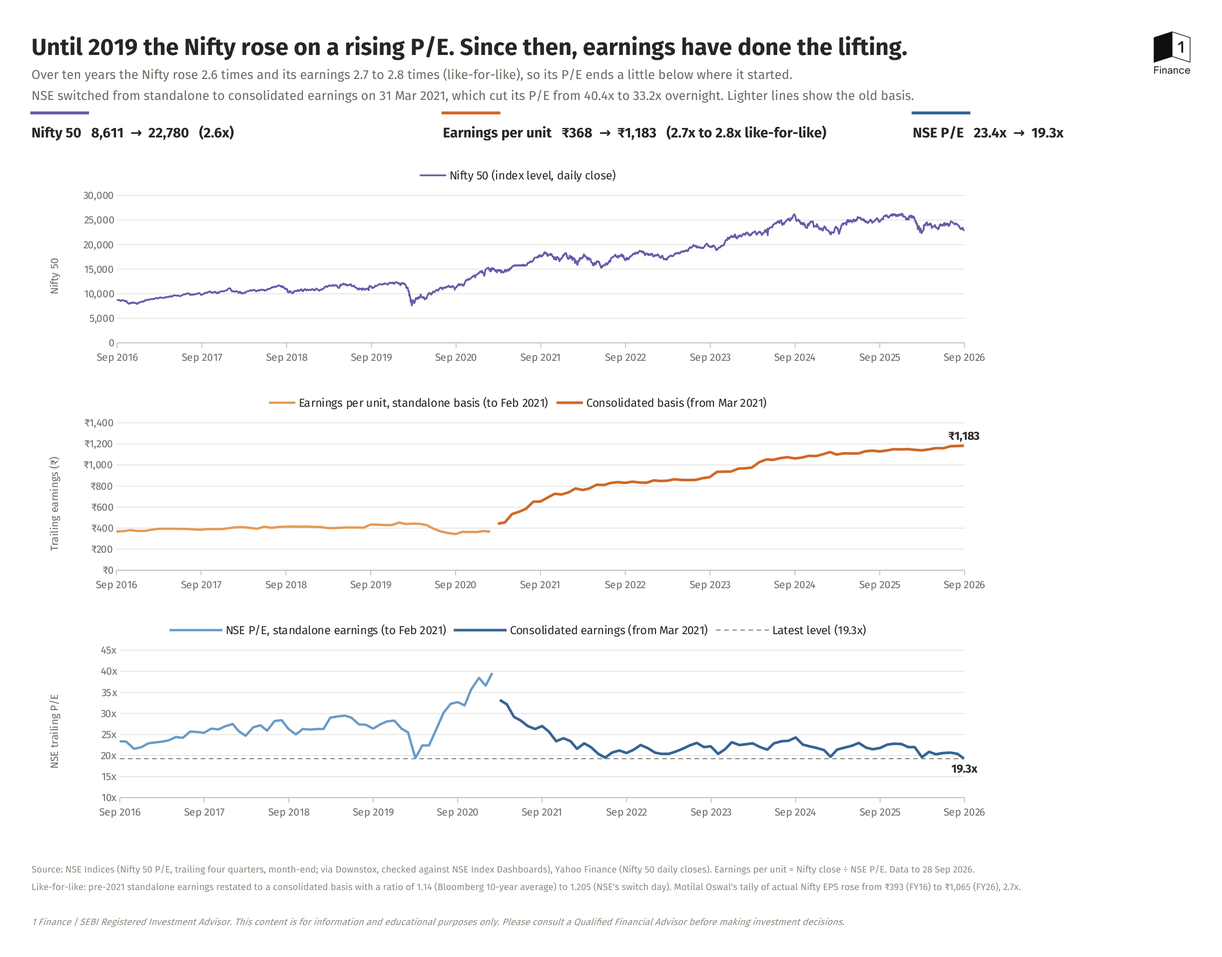
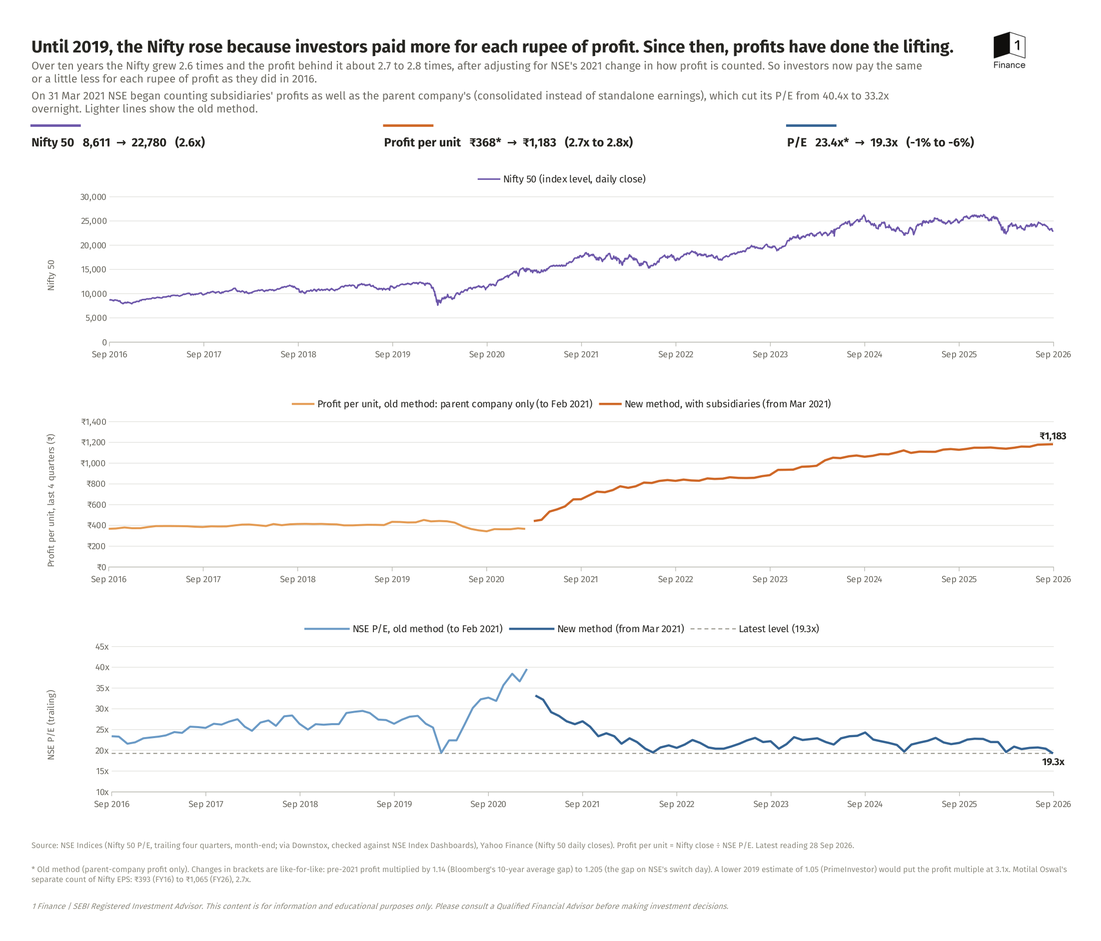
Revise ten-year Nifty takeaways and chart after fact and style review
Explain NSE's 2021 switch to consolidated earnings before relying on it,
use plain wording in the chart title, subtitle and legends, mark old-basis
values in the key strip, add PrimeInvestor's lower 1.05 ratio as a third
like-for-like case, correct verification counts and source dates, and widen
and space the three chart panels.

Claude-Session: https://claude.ai/code/session_01N5HxAwkVaTsKQoA79fMcaE

diff --git a/analysis/nifty-decade/pipeline/build_decade.py b/analysis/nifty-decade/pipeline/build_decade.py
@@ -115,6 +115,8 @@ f(ws, 'A10', 'Consolidated / standalone, Bloomberg 10-year average (input)'); f(
 f(ws, 'C10', 'The Hindu BusinessLine, Mar 2021: "on the average ... 14 per cent higher"', None, INK2, size=9)
 f(ws, 'A11', 'Ratio used for the like-for-like columns (input)', bold=True); f(ws, 'B11', '=B9', '0.000', BLUE_INPUT, bold=True)
 f(ws, 'C11', 'Default: the switch-day ratio. Type 1.14 (or anything else) to see how the like-for-like columns move.', None, INK2, size=9)
+f(ws, 'A12', 'Low estimate, PrimeInvestor Dec 2019 (input)'); f(ws, 'B12', CFG['low_ratio'], '0.000', BLUE_INPUT)
+f(ws, 'C12', 'PrimeInvestor: consolidated earnings "about 5 per cent higher than the standalone earnings"', None, INK2, size=9)
 
 # ================================================================= Monthly
 ws = ws_m
@@ -144,7 +146,7 @@ ws.cell(row=sw_row, column=9, value=('First consolidated reading (31 Mar 2021). 
 
 # ================================================================= Summary tables
 ws = ws_s
-hdr_row = 13
+hdr_row = 14
 labels = ['Point in time', 'Month-end', 'Nifty 50', 'NSE P/E as published', 'Basis', 'EPS as published (₹)',
           'EPS like-for-like (₹)', 'P/E like-for-like', 'Price multiple to latest', 'EPS multiple to latest (like-for-like)',
           'P/E multiple to latest (like-for-like)']
@@ -201,11 +203,11 @@ for k, (lab, a, b) in enumerate(halves):
 
 S0 = H0 + 5
 f(ws, (S0, 1), 'Like-for-like range: pre-2021 earnings restated to a consolidated basis', bold=True, color=INK)
-for j, lab in enumerate(['Measure', 'Ratio 1.14 (Bloomberg 10-yr average)', 'Switch-day ratio'], start=1):
+for j, lab in enumerate(['Measure', 'Ratio 1.05 (PrimeInvestor, low)', 'Ratio 1.14 (Bloomberg 10-yr average)', 'Switch-day ratio'], start=1):
     c = ws.cell(row=S0 + 1, column=j, value=lab); c.font = Font(name=BODY, bold=True, size=10, color=INK); c.fill = hdr_fill
     c.alignment = Alignment(wrap_text=True)
 ws.row_dimensions[S0 + 1].height = 30
-f(ws, (S0 + 2, 1), 'Ratio'); f(ws, (S0 + 2, 2), '=$B$10', '0.000'); f(ws, (S0 + 2, 3), '=$B$9', '0.000')
+f(ws, (S0 + 2, 1), 'Ratio'); f(ws, (S0 + 2, 2), '=$B$12', '0.000'); f(ws, (S0 + 2, 3), '=$B$10', '0.000'); f(ws, (S0 + 2, 4), '=$B$9', '0.000')
 sens = [
     ('Earnings multiple over the decade', f'=$F${LATEST}/($F${P0}*{{R}})', '0.00"x"'),
     ('P/E ten years ago, restated', f'=$D${P0}/{{R}}', '0.0"x"'),
@@ -220,6 +222,7 @@ for k, (lab, formula, fmt) in enumerate(sens):
     f(ws, (rr, 1), lab)
     f(ws, (rr, 2), formula.replace('{R}', f'$B${S0 + 2}'), fmt)
     f(ws, (rr, 3), formula.replace('{R}', f'$C${S0 + 2}'), fmt)
+    f(ws, (rr, 4), formula.replace('{R}', f'$D${S0 + 2}'), fmt)
 SENS = {'eps_mult': S0 + 3, 'pe_then': S0 + 4, 'pe_chg': S0 + 5, 'eps_mult_h2': S0 + 6, 'pe_2019': S0 + 7, 'pe_chg_h2': S0 + 8, 'pe_mar20': S0 + 9}
 
 Q0 = S0 + 3 + len(sens) + 1
@@ -354,11 +357,14 @@ def chart_header(ws, title, sub1, sub2):
     for col in range(1, 23):
         ws.column_dimensions[get_column_letter(col)].width = 7.2
     ws.column_dimensions['A'].width = 2.5
-    for r, hgt in {1: 10, 2: 30, 3: 18, 4: 18, 5: 8, 6: 34, 7: 6}.items():
+    for r, hgt in {1: 10, 2: 30, 3: 30, 4: 30, 5: 8, 6: 34, 7: 6}.items():
         ws.row_dimensions[r].height = hgt
-    ws['B2'] = title; ws['B2'].font = Font(name=BRAND, size=20, bold=True, color=INK)
-    ws['B3'] = sub1; ws['B3'].font = Font(name=BRAND, size=11, color=INK2)
-    ws['B4'] = sub2; ws['B4'].font = Font(name=BRAND, size=11, color=INK2)
+    ws['B2'] = title; ws['B2'].font = Font(name=BRAND, size=17, bold=True, color=INK)
+    for r, txt in ((3, sub1), (4, sub2)):
+        ws.merge_cells(start_row=r, start_column=2, end_row=r, end_column=19)
+        c = ws.cell(row=r, column=2, value=txt)
+        c.font = Font(name=BRAND, size=11, color=INK2)
+        c.alignment = Alignment(wrap_text=True, vertical='top')
     try:
         logo = XLImage(LOGO); logo.width, logo.height = 58, 58; ws.add_image(logo, 'U2')
     except Exception as e:
@@ -375,8 +381,12 @@ def strip(ws, items):
 
 def footer(ws, start_row, lines):
     for k, (txt, ital) in enumerate(lines):
-        c = ws.cell(row=start_row + k, column=2, value=txt)
+        r = start_row + k
+        ws.merge_cells(start_row=r, start_column=2, end_row=r, end_column=22)
+        c = ws.cell(row=r, column=2, value=txt)
         c.font = Font(name=BRAND, size=8, color=INK3, italic=ital)
+        c.alignment = Alignment(wrap_text=True, vertical='top')
+        ws.row_dimensions[r].height = 24 if len(txt) > 190 else 13
 
 
 def page(ws, last_row):
@@ -396,10 +406,11 @@ T = CFG['text']
 ws = ws_c1
 chart_header(ws, T['c1_title'], T['c1_sub1'], T['c1_sub2'])
 L = S_['LATEST']; P = S_['P0']
+E0 = S_['S0'] + 3
 strip(ws, [
     ('B6', f'="Nifty 50   "&TEXT(Summary!C{P},"#,##0")&"  →  "&TEXT(Summary!C{L},"#,##0")&"   ("&TEXT(Summary!I{P},"0.0")&"x)"', C_PRICE),
-    ('I6', f'="Earnings per unit   ₹"&TEXT(Summary!F{P},"#,##0")&"  →  ₹"&TEXT(Summary!F{L},"#,##0")&"   ("&TEXT(Summary!C{S_["S0"] + 3},"0.0")&"x to "&TEXT(Summary!B{S_["S0"] + 3},"0.0")&"x like-for-like)"', C_EPS),
-    ('Q6', f'="NSE P/E   "&TEXT(Summary!D{P},"0.0")&"x  →  "&TEXT(Summary!D{L},"0.0")&"x"', C_PE),
+    ('I6', f'="Profit per unit   ₹"&TEXT(Summary!F{P},"#,##0")&"*  →  ₹"&TEXT(Summary!F{L},"#,##0")&"   ("&TEXT(Summary!D{E0},"0.0")&"x to "&TEXT(Summary!C{E0},"0.0")&"x)"', C_EPS),
+    ('Q6', f'="P/E   "&TEXT(Summary!D{P},"0.0")&"x*  →  "&TEXT(Summary!D{L},"0.0")&"x   ("&TEXT(Summary!D{E0 + 2},"+0%;-0%")&" to "&TEXT(Summary!C{E0 + 2},"+0%;-0%")&")"', C_PE),
 ])
 # reference line for the latest P/E: two points, both formulas
 R0 = S_['Q0'] + 7
@@ -410,28 +421,28 @@ f(ws_s, (R0 + 2, 1), f'=Monthly!A{M1}', 'dd-mmm-yyyy'); f(ws_s, (R0 + 2, 2), f'=
 c_price = new_chart()
 line(c_price, ws_d, 1, 2, d_start, D1, C_PRICE, 1.5, 'Nifty 50 (index level, daily close)')
 style(c_price, 0, 30000, 5000, '#,##0', 'Nifty 50')
-c_price.height, c_price.width = 6.3, 29.5
+c_price.height, c_price.width = 7.0, 37.5
 
 c_eps = new_chart()
-s_e1 = line(c_eps, ws_m, 1, 5, M0, sw_row - 1, C_EPS_SA, 2.0, 'Earnings per unit, standalone basis (to Feb 2021)')
-s_e2 = line(c_eps, ws_m, 1, 5, sw_row, M1, C_EPS, 2.25, 'Consolidated basis (from Mar 2021)')
-style(c_eps, 0, 1400, 200, '"₹"#,##0', 'Trailing earnings (₹)')
+s_e1 = line(c_eps, ws_m, 1, 5, M0, sw_row - 1, C_EPS_SA, 2.0, 'Profit per unit, old method: parent company only (to Feb 2021)')
+s_e2 = line(c_eps, ws_m, 1, 5, sw_row, M1, C_EPS, 2.25, 'New method, with subsidiaries (from Mar 2021)')
+style(c_eps, 0, 1400, 200, '"₹"#,##0', 'Profit per unit, last 4 quarters (₹)')
 label_points(s_e2, [M1 - sw_row], ['t'])
-c_eps.height, c_eps.width = 6.3, 29.5
+c_eps.height, c_eps.width = 7.0, 37.5
 
 c_pe = new_chart()
-s_p1 = line(c_pe, ws_m, 1, 3, M0, sw_row - 1, C_PE_SA, 2.0, 'NSE P/E, standalone earnings (to Feb 2021)')
-s_p2 = line(c_pe, ws_m, 1, 3, sw_row, M1, C_PE, 2.25, 'Consolidated earnings (from Mar 2021)')
+s_p1 = line(c_pe, ws_m, 1, 3, M0, sw_row - 1, C_PE_SA, 2.0, 'NSE P/E, old method (to Feb 2021)')
+s_p2 = line(c_pe, ws_m, 1, 3, sw_row, M1, C_PE, 2.25, 'New method (from Mar 2021)')
 line(c_pe, ws_s, 1, 2, R0 + 1, R0 + 2, C_REF, 1.0, T['ref_name'], dash='dash')
-style(c_pe, 10, 45, 5, '"\u2007\u2007\u2007"0"x"', 'NSE trailing P/E')
+style(c_pe, 10, 45, 5, '"\u2007\u2007\u2007"0"x"', 'NSE P/E (trailing)')
 label_points(s_p2, [M1 - sw_row], ['b'])
-c_pe.height, c_pe.width = 6.3, 29.5
+c_pe.height, c_pe.width = 7.0, 37.5
 
 ws.add_chart(c_price, 'B8')
-ws.add_chart(c_eps, 'B21')
-ws.add_chart(c_pe, 'B34')
-footer(ws, 48, [(T['c1_foot1'], False), (T['c1_foot2'], False), ('', False), (T['disclaimer'], True)])
-page(ws, 52)
+ws.add_chart(c_eps, 'B23')
+ws.add_chart(c_pe, 'B38')
+footer(ws, 53, [(T['c1_foot1'], False), (T['c1_foot2'], False), ('', False), (T['disclaimer'], True)])
+page(ws, 57)
 
 # fonts for body sheets
 for sh in (ws_s, ws_v):

diff --git a/analysis/nifty-decade/takeaways.md b/analysis/nifty-decade/takeaways.md
@@ -1,55 +1,64 @@
 # Nifty 50 over ten years: price, P/E and earnings (September 2016 to September 2026)
 
-Data to 28 September 2026. Companion files: `nifty_decade_price_pe_earnings.xlsx` (data, formulas and native Excel charts) and `nifty_decade_price_pe_earnings.png` (the chart).
+Latest reading 28 September 2026. Companion files: `nifty_decade_price_pe_earnings.xlsx` (data, formulas and native Excel charts) and `nifty_decade_price_pe_earnings.png` (the chart).
 
 ## The one thing to remember
 
-A P/E ratio tells you how many rupees investors pay for each rupee of a company's profit. NSE publishes one for the Nifty 50 every day: the index level divided by the profit its companies reported over the last four quarters. Dividing the index by that P/E gives the profit behind each unit of the index. (Think of the Nifty as one share; this is the profit that one share earned over the past year.)
+A P/E ratio tells you how many rupees investors pay for each rupee of a company's yearly profit. NSE publishes one for the Nifty 50 every day: the index level divided by the profit its companies reported over the last four quarters. Dividing the index by that P/E gives the profit (or earnings) behind each unit of the index. Think of the Nifty as one share; this is the profit that one share earned over the past year.
 
-Over the last ten years, the Nifty 50 went from 8,611 to 22,780, which is 2.6 times. The profit behind each unit of the index grew by about the same amount, 2.7 to 2.8 times, once you allow for a change NSE made in 2021 to how it counts that profit. So investors today pay slightly less for each rupee of profit than they did in September 2016. The more useful part is how the decade got there, because it happened in two halves that worked in opposite ways.
+The last ten years split into two halves. Until 2019, the Nifty rose mainly because investors paid more for each rupee of profit, while profits grew slowly. Since then, it has risen because profits grew fast, and investors have ended up paying less for each rupee. Over the whole decade the two roughly cancel out: the Nifty went from 8,611 to 22,780, which is 2.6 times, and the profit behind it grew about 2.7 to 2.8 times.
 
 ## Takeaways
 
-**1. From 2016 to 2019, prices rose because investors paid more, while profits barely moved.**
-Between September 2016 and December 2019, the Nifty rose 41%, from 8,611 to 12,168. The profit behind each unit rose only 17%, from ₹368 to ₹430. The difference came from the P/E, which climbed from 23.4x to 28.3x. Other analysts saw the same drought at the time: PrimeInvestor wrote in December 2019 that Nifty earnings had grown "barely 2 per cent a year" over five years, and ICICI Direct puts Nifty earnings growth at 2% a year from FY17 to FY20. Even the September 2019 corporate tax cut, which lifted Nifty earnings about 10% almost overnight according to Business Standard, only took them to ₹430 by December.
+**1. NSE changed how it counts profit in 2021, and that breaks most long-run comparisons.**
+Until March 2021, NSE worked out the Nifty's P/E from each company's standalone profit, the profit of the parent company alone. From 31 March 2021 it switched to consolidated profit, which also counts the profit of subsidiaries, the other companies the parent owns or controls. Consolidated profit was about 20% higher that day, so the P/E dropped from 40.4x to 33.2x overnight while the index moved about 1%. (A P/E of 40.4x means investors paid ₹40.4 for every ₹1 of yearly profit.) The chart shows the years before the switch in a lighter shade. Every "like-for-like" figure below adds the missing subsidiary profit back to the pre-2021 numbers so the two periods can be compared.
 
-**2. From 2020 to 2026, profits did the work and the P/E came down.**
-Between December 2019 and September 2026, the Nifty rose 87%, from 12,168 to 22,780. Over the same stretch, the profit behind each unit grew 2.3 to 2.4 times on a like-for-like basis. For both to be true, the P/E had to fall, and it did: from roughly 23.5x to 25x in December 2019 (restated to today's basis) to 19.3x now, a drop of 18% to 22%. Motilal Oswal's own tally of Nifty earnings shows the same upswing, with growth of more than 20% a year from FY20 to FY24.
+**2. From 2016 to 2019, prices rose mostly because investors paid more; profits grew only slowly.**
+Between September 2016 and December 2019, the Nifty rose 41%, from 8,611 to 12,168. The profit behind each unit rose 17%, from ₹368 to ₹430, about 5% a year, and half of that came in one step when the corporate tax rate was cut in September 2019 (on NSE's figures, profit per unit went from about ₹404 at the end of August to ₹435 at the end of September). The rest of the gain came from the P/E, which climbed from 23.4x to 28.3x on NSE's old counting method. PrimeInvestor wrote in December 2019 that Nifty earnings had grown "barely 2 per cent a year" over the previous five years, and ICICI Direct, looking back in its 2024 strategy report, puts Nifty earnings growth at 2% a year over FY17 to FY20.
 
-**3. NSE changed how it counts profit in 2021, and that breaks most long-run comparisons.**
-Until March 2021, NSE worked out the Nifty's P/E using each company's standalone profit, the profit of the parent company alone. From 31 March 2021, it switched to consolidated profit, which also counts subsidiaries. Consolidated profit was about 20% higher that day, so the P/E dropped from 40.4x to 33.2x overnight while the index barely moved. That is why the chart shows the earlier years in a lighter shade. It also means the "10-year average P/E" numbers quoted in the press, which range from 23x to 27x, mix the two methods and make today's market look cheaper than it is. On the consolidated method alone, the median month-end P/E since April 2021 is 22.0x. Today's 19.3x is 12.5% below that, and it is the lowest month-end reading since the switch; the previous low was 19.5x in June 2022.
+**3. From 2020 to 2026, profits did the work and the P/E came down.**
+Between December 2019 and September 2026, the Nifty rose 87%, from 12,168 to 22,780. Over the same stretch, the profit behind each unit grew 2.3 to 2.4 times, like-for-like. For both to be true, the P/E had to fall, and it did. In December 2019 it was somewhere between 23.5x and 25x on today's counting method; today it is 19.3x, a drop of 18% to 22%. The path was bumpy: prices recovered from the COVID crash before profits did, so the P/E first shot up to its highest level of the decade in early 2021, and then came down as profits caught up. Motilal Oswal's own tally shows the same upswing, with Nifty earnings growing more than 20% a year from FY20 to FY24.
 
-**4. Like-for-like, the Nifty has been cheaper than today only twice in ten years.**
-Restating the pre-2021 P/Es on today's basis, the only months cheaper than today's 19.3x were the weeks after demonetisation in November and December 2016 (about 18x to 19x) and the COVID crash in spring 2020 (about 16x to 17x in March). Both were moments of panic. Two episodes are not enough to say what happens next, so the useful reading is narrower: the market is near the bottom of its ten-year range on this measure.
+**4. Today's P/E is low against the last five years, and the usual "10-year average" overstates how low.**
+Since the 2021 switch, the median month-end P/E is 22.0x; that is the middle reading when every month-end is lined up from lowest to highest. Today's 19.3x (28 September) is 12.5% below it and lower than any month-end reading since the switch; the lowest month-end before now was 19.5x in June 2022, though on individual days that month it probably dipped to about 19x. Some widely quoted 10-year averages, such as Business Standard's 26.7x (January 2025) and Craytheon's 23.28x, include the higher readings from before 2021. Averages built that way make today's P/E look further below normal than it really is.
 
-**5. The trailing P/E and the forward P/E answer different questions.**
-NSE's P/E divides today's price by the profit already reported, so it stands at 19.3x. The Bloomberg forward P/E in our earlier chart divides the same price by the profit analysts expect over the next twelve months, so it stands at about 16.9x. The gap between the two, about 14%, is the profit growth analysts are counting on. The trailing number rests on facts; the forward number rests on forecasts, and those forecasts have been cut by about 9% over the past year.
+**5. Like-for-like, investors have paid less for each rupee of profit than today in only two stretches of the decade.**
+Once the pre-2021 P/Es are put on today's counting method, readings below today's 19.3x show up in the COVID crash of spring 2020 (about 16x to 17x in March) and, on the main estimates, in the months after demonetisation in late 2016, running into early 2017 (about 18x to 19x). Both came after big shocks to the market. Two episodes are too few to predict anything from, so the safe conclusion is a modest one: on this measure, the market sits near the bottom of its ten-year range.
 
-**6. Gains that come from a rising P/E can be taken back; gains that come from profits stay as long as the profits do.**
-The first half of the decade shows the first kind. Investors paid 21% more per rupee of profit by 2019 than in 2016, and that extra has since been given back. The second half shows the second kind: the index is higher today because the companies in it earn more than twice as much. Dividends are on top of all this. The Nifty figures here are the price index; the total-return index, which reinvests dividends, grew about 1.35 percentage points a year faster over the ten years to July 2026 (12.39% against 11.04%).
+**6. The trailing P/E and the forward P/E answer different questions.**
+NSE's P/E divides today's price by the profit already reported over the past year, which is why it is called the trailing P/E; it stands at 19.3x. The forward P/E divides the same price by the profit analysts expect over the next twelve months. Bloomberg's forward P/E, from the chart in our earlier analysis, stands at about 16.9x, and Motilal Oswal's at 17.6x. The gap between trailing and forward, roughly 10% to 14% depending on whose forecast is used, is about the profit growth analysts expect over the next year. The trailing number rests on reported results; the forward number rests on forecasts, and consensus forecasts for FY27 earnings were cut by about 9% over the year to August 2026 (JM Financial).
+
+**7. Gains from a rising P/E reversed after 2019, while gains from growing profits have held.**
+In the first half of the decade, investors paid 21% more for each rupee of profit by 2019 than in 2016, and that extra has since been given back as the P/E came down. In the second half, the index went up because the companies in it now earn more than twice as much as they did in December 2019. The first kind of gain depends on how investors feel about the market; the second depends on what the companies actually earn.
+
+## A note on dividends
+
+The Nifty figures here track share prices only and leave out dividends. NSE's total-return index, which assumes every dividend is reinvested, grew 12.39% a year compounded over the ten years to 17 July 2026, against 11.04% a year for the price index, a gap of about 1.35 percentage points a year.
 
 ## What this means for a conversation with a client
 
-For a client who asks whether the Nifty is expensive, the decade gives a clear answer on today's numbers. Investors are paying about 19 times the profit these companies actually reported, below the 22x typical of the last five years and close to the lowest level of the decade on a like-for-like basis. The ten-year gain came from profits more than doubling. A low P/E describes the price today and makes no promise about the next few months, since P/E readings have gone lower before, in 2016 and 2020.
+For a client who asks whether the Nifty is expensive, today's numbers show it priced below its usual level. Investors are paying about 19 times the profit these companies actually reported, below the 22 times typical of the last five years, and near the bottom of the ten-year range on a like-for-like basis; only the late-2016 and early-2020 lows were cheaper. The ten-year gain came from profits more than doubling. A low P/E describes only today's price, and readings went lower still in 2016 and 2020, so prices can fall further in the months ahead even from here.
 
 ## How much to trust these numbers
 
-- NSE's month-end P/E values come from Downstox, which republishes NSE Indices data. 26 of them were checked against NSE's own monthly Index Dashboards and Nippon India Mutual Fund's daily notes, and the largest gap was 0.08, which is rounding. The 28 September 2026 value (19.26) comes from Nippon India's daily note citing NSE.
-- The Nifty closes come from Yahoo Finance and were copied twice independently; every one of the 2,484 days matched. One missing day, 29 March 2019, was filled from Yahoo's monthly table.
-- The like-for-like figures depend on how much bigger consolidated profit was than standalone profit before 2021. That gap was not constant: about 14% on average over the ten years to 2020 and about 16% in December 2020 on Bloomberg data, and 20.5% on NSE's switch day. Every like-for-like number here is given as a range across that spread.
-- As an independent check, Motilal Oswal's count of actual Nifty earnings per share went from ₹393 in FY16 to ₹1,065 in FY26, 2.7 times, inside the 2.7x to 2.8x range above.
+- NSE's month-end P/E values come from Downstox, which republishes NSE Indices data. We checked 25 month-end values, plus the 30 March 2021 daily reading, against NSE's own monthly Index Dashboards and Nippon India Mutual Fund's notes. All but one agree within 0.05, which is Downstox's one-decimal rounding; the largest gap is 0.08, in July 2026, against a Nippon India product note. The 28 September 2026 value (19.26) is a daily reading from Nippon India's note citing NSE, since September's month-end figure is not out yet.
+- The Nifty closes come from Yahoo Finance and were copied twice independently. All 2,483 days in Yahoo's daily table matched; the one missing day, 29 March 2019, was filled from Yahoo's monthly table, making 2,484 days in all.
+- The like-for-like figures depend on how much bigger consolidated profit was than standalone profit before 2021, and estimates differ. Bloomberg data put the gap at 14% on average over the ten years to 2020 and at about 13% to 16% in early 2021 (as reported by The Hindu BusinessLine), and NSE's own switch-day numbers give 20.5%. PrimeInvestor put it at only about 5% in December 2019. We use 14% to 20.5%, the range best supported by NSE's own data and Bloomberg. At 5%, the decade's profit multiple would be about 3.1x, today's P/E would be 14% below September 2016's, and only the March 2020 low would have been cheaper than today. The workbook's Summary sheet shows all three cases.
+- As a rough cross-check, Motilal Oswal's figures for Nifty earnings per share, from reports nine years apart, go from about ₹393 in FY16 (the year to March 2016) to ₹1,065 in FY26, 2.7 times, consistent with the range above. These are fiscal-year totals on Motilal Oswal's own method, so they will not match NSE's trailing figures exactly.
 
 ## Sources
 
 - NSE Indices, Nifty 50 P/E methodology (consolidated trailing four quarters): https://www.niftyindices.com/resources/index-concepts/price-earnings-ratio
 - Downstox, Nifty 50 PE ratio monthly history since 1999 (NSE Indices data): https://downstox.com/nifty-pe/nifty-50
-- NSE Indices monthly Index Dashboards (December 2016 to March 2026, hosted by Mondo Visione) and Nippon India MF "Markets for You" daily notes, used for the cross-check; URLs are on the Validation sheet of the workbook.
+- NSE Indices monthly Index Dashboards (December 2016 to March 2026, hosted by Mondo Visione) and Nippon India MF "Markets for You" notes, used for the cross-check; URLs are on the Validation sheet of the workbook.
 - Yahoo Finance, NIFTY 50 (^NSEI) historical data: https://finance.yahoo.com/quote/%5ENSEI/history/
-- The Economic Times (23 February 2021): NSE to calculate index P/E on consolidated earnings from 31 March 2021. Nippon India MF (31 March 2021 note): P/E of 40.43 on 30 March 2021; NSE Index Dashboard March 2021: 33.20 on 31 March 2021.
-- The Hindu BusinessLine (March 2021, Bloomberg data): consolidated Nifty earnings about 16% above standalone in December 2020 and 14% above on average over ten years.
-- PrimeInvestor (December 2019), "What they don't tell you about the Nifty PE". ICICI Direct, Market Strategy 2024 (Nifty EPS CAGR of 2% over FY17-20). Motilal Oswal India Strategy (March 2017): Nifty EPS "fluctuating around INR400 over FY14-17" and FY16 EPS of about ₹393.
-- Business Standard via Rediff (8 June 2020): the September 2019 tax cut lifted Nifty EPS from about ₹410 to ₹450.
-- Motilal Oswal: Nifty EPS FY21 ₹539 to FY26 ₹1,065 and 20%+ CAGR over FY20-24 (various India Strategy reports, as listed in the workbook).
-- Press-cited 10-year P/E averages: Business Standard (30 January 2025, 26.7x), Kotak Neo (29 September 2026, 23x), Craytheon (25 September 2026, 23.28x).
+- The Economic Times (23 February 2021): NSE to calculate index P/E on consolidated earnings from 31 March 2021. Nippon India MF (note of 31 March 2021): P/E of 40.43 on 30 March 2021. NSE Index Dashboard, March 2021: 33.20 on 31 March 2021.
+- The Hindu BusinessLine (March 2021, Bloomberg data): consolidated Nifty earnings "about 16 per cent higher" than standalone, and 14% higher on average over ten years.
+- PrimeInvestor (December 2019), "What they don't tell you about the Nifty PE": earnings growth "barely 2 per cent a year" over five years; consolidated earnings "about 5 per cent higher than the standalone earnings".
+- ICICI Direct, Market Strategy 2024 (published December 2023): Nifty EPS CAGR of 2% over FY17-20.
+- Motilal Oswal (MOFSL): FY16 EPS of about ₹393 (India Strategy, March 2017); FY21 ₹539 (via Mint, June 2021); FY26 ₹1,065 (via ET Now and The Adviser Times, June 2026); 20%+ EPS CAGR over FY20-24 (4QFY25 review, June 2025); forward P/E of 17.6x in September 2026 (via ET Now).
+- Corporate tax cut of 20 September 2019: CARE Ratings. Profit-per-unit step from about ₹404 to ₹435 is from NSE's figures in this workbook.
+- Business Standard (30 January 2025): Nifty 10-year average P/E of 26.7x. Craytheon (25 September 2026): 10-year average of 23.28x.
+- FY27 consensus earnings cut: JM Financial Nifty50 Analyser via 5paisa (3 September 2026, 9.3% over the year to August 2026).
 - Nifty 50 price and total-return CAGR over ten years to 17 July 2026: NSE return profile, via Bajaj Finserv AMC.
-- Bloomberg forward P/E of about 16.9x: digitised from the Bloomberg chart used in `analysis/nifty-pe-earnings/`. FY27 consensus earnings cut of about 9%: JM Financial via Moneycontrol and 5paisa (June 2026).
+- Bloomberg forward P/E of about 16.9x: digitised from the Bloomberg chart used in `analysis/nifty-pe-earnings/`.

diff --git a/analysis/nifty-decade/pipeline/README.md b/analysis/nifty-decade/pipeline/README.md
@@ -1,9 +1,9 @@
 # How the ten-year Nifty chart was built
 
-1. `data/nifty50_daily_close_2016-09_to_2026-09-28.csv`: Nifty 50 (^NSEI) daily closes from Yahoo Finance history pages. Each year was transcribed twice by independent agents and diffed (all 2,484 rows matched); every month-end close matches Yahoo's monthly table. Yahoo's daily table has no row for 29 Mar 2019, so that close (11,623.90) was taken from Yahoo's March 2019 monthly row.
+1. `data/nifty50_daily_close_2016-09_to_2026-09-28.csv`: Nifty 50 (^NSEI) daily closes from Yahoo Finance history pages. Each year was transcribed twice by independent agents and diffed (all 2,483 days in Yahoo's daily table matched); every month-end close matches Yahoo's monthly table. Yahoo's daily table has no row for 29 Mar 2019, so that close (11,623.90) was taken from Yahoo's March 2019 monthly row.
 2. `data/nse_pe_monthly_downstox.csv`: NSE's Nifty 50 P/E at each month-end, as republished by Downstox (https://downstox.com/nifty-pe/nifty-50). Values have one decimal except year-ends (two decimals). The September 2026 row in this file is the mid-month reading (19.7 on 18 Sep); `build_decade.py` replaces it with the 28 Sep 2026 reading of 19.26 from `inputs.json`.
 3. `inputs.json`: the switch-day values (30 and 31 Mar 2021), the latest P/E, the 26 cross-check values against NSE Index Dashboards and Nippon India notes, the evidence on the consolidated/standalone earnings ratio, Motilal Oswal's EPS tally, and the chart text.
 4. `build_decade.py`: writes the workbook. Earnings per unit, the like-for-like restatement, every summary figure and the chart reference line are Excel formulas, recalculated with LibreOffice (0 errors). The charts are XY charts, so each earnings basis is its own series and the 2021 break needs no blank cells.
 5. The PNG is rendered from the workbook's Chart sheet with `../../nifty-pe-earnings/pipeline/render.py` (LibreOffice to PDF, then rasterised).
 
-Like-for-like figures multiply pre-2021 standalone earnings by a ratio between 1.14 (Bloomberg's 10-year average consolidated premium, per The Hindu BusinessLine) and 1.205 (NSE's own switch day). The workbook's Summary sheet shows results at both ends.
+Like-for-like figures multiply pre-2021 standalone earnings by a ratio. The chart uses 1.14 (Bloomberg's 10-year average consolidated premium, per The Hindu BusinessLine) to 1.205 (NSE's own switch day); the Summary sheet also shows a low case of 1.05 (PrimeInvestor's Dec 2019 estimate).
